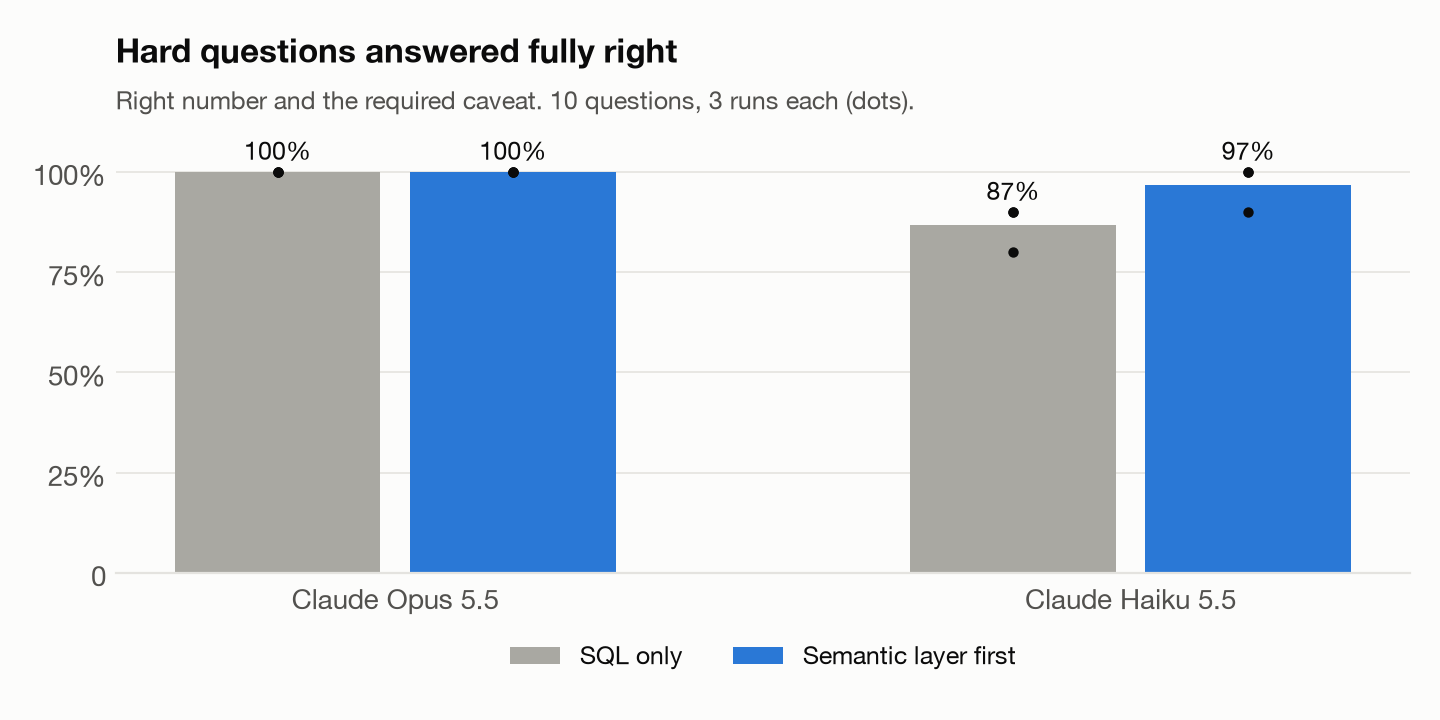
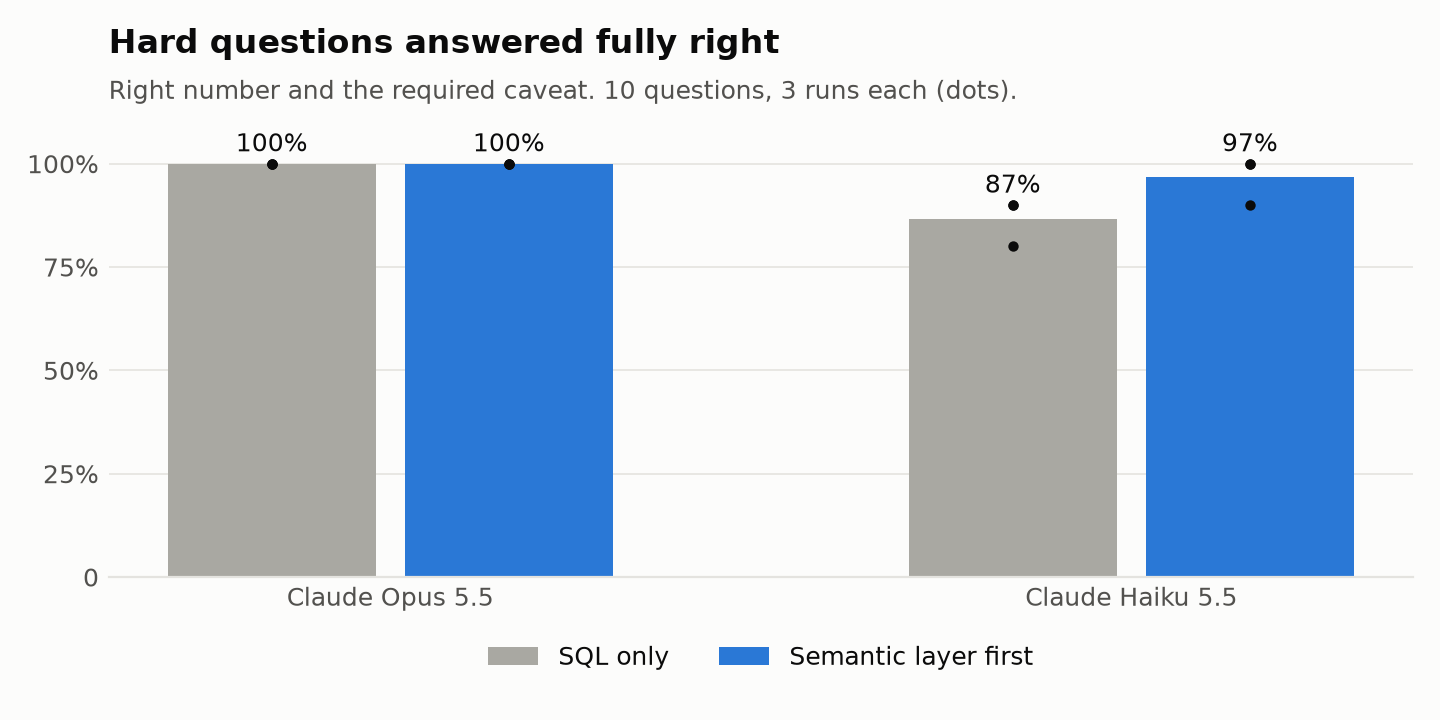
Say 50 meters (half a block); redraw charts in the daily run

diff --git a/docs/charts.py b/docs/charts.py
@@ -26,8 +26,8 @@ ORANGE = "#eb6834"
 
 plt.rcParams.update(
     {
-        "font.family": ["Helvetica Neue", "Arial"],
-        "font.size": 10,
+        "font.family": ["DejaVu Sans"],  # ships with matplotlib, so charts render the same on any machine
+        "font.size": 9,
         "text.color": INK,
         "axes.labelcolor": INK_2,
         "axes.edgecolor": GRID,
@@ -46,7 +46,7 @@ def query(sql: str) -> list[list]:
 
 
 def finish(ax, title: str, subtitle: str) -> None:
-    ax.set_title(title, loc="left", fontsize=12, fontweight="bold", pad=22)
+    ax.set_title(title, loc="left", fontsize=12, fontweight="bold", pad=10 + 12 * (subtitle.count("\n") + 1))
     ax.text(0, 1.02, subtitle, transform=ax.transAxes, fontsize=9, color=INK_2, va="bottom")
     for side in ("top", "right", "left"):
         ax.spines[side].set_visible(False)
@@ -67,10 +67,10 @@ def lanes_by_borough() -> None:
     near = [r[1] * 100 for r in rows]
     city = [r[2] * 100 for r in rows]
 
-    fig, ax = plt.subplots(figsize=(7.2, 3.9))
+    fig, ax = plt.subplots(figsize=(7.2, 4.4))
     y = range(len(areas))
     h = 0.34
-    ax.barh([i + h / 2 + 0.02 for i in y], near, height=h, color=BLUE, label="Within 50 m of new protected lanes")
+    ax.barh([i + h / 2 + 0.02 for i in y], near, height=h, color=BLUE, label="Within about 50 meters (half a block) of new protected lanes")
     ax.barh([i - h / 2 - 0.02 for i in y], city, height=h, color=GRAY, label="Citywide, same two-year windows")
     for i, (n, c) in enumerate(zip(near, city)):
         ax.text(max(n, 0) + 0.8, i + h / 2 + 0.02, f"{n:+.0f}%" if abs(n) >= 1 else f"{n:+.1f}%", va="center", fontsize=9, color=INK)
@@ -81,9 +81,9 @@ def lanes_by_borough() -> None:
     ax.set_axisbelow(True)
     ax.set_xlim(min(min(city), 0) - 2, max(near) + 8)
     ax.xaxis.set_major_formatter(lambda v, _: f"{v:+.0f}%" if v else "0")
-    ax.legend(loc="upper center", bbox_to_anchor=(0.45, -0.1), ncol=2, frameon=False, fontsize=9)
+    ax.legend(loc="upper left", bbox_to_anchor=(0, -0.1), ncol=1, frameon=False, fontsize=9)
     finish(ax, "Cyclists hurt, 2 years after vs. 2 years before a protected lane",
-           "NYC lanes installed 2015 to Oct 2024. Not adjusted for more people riding. Staten Island left out (1 injury before).")
+           "NYC lanes installed 2015 to Oct 2024. Not adjusted for more people riding.\nStaten Island left out (1 injury before).")
     fig.tight_layout()
     fig.savefig(OUT / "new_lanes_by_borough.png")
     plt.close(fig)

diff --git a/README.md b/README.md
@@ -7,7 +7,7 @@ I live near Hyde Park Ave in Roslindale, which has no bike lane; the City is [lo
 **Bottom line**
 
 - **Riding near me is up.** Summer bike counts on Washington St in Roslindale went from about 330 a day in 2018 to 574 in 2026, while car traffic stayed flat. Each summer is only two count days, so treat the size of the jump as rough.
-- **The NYC data can't show whether protected lanes make streets safer.** Cyclists hurt within 50 m of new lanes rose 17%, against 1.7% citywide, but lanes go where riding is growing and there's no per-street ridership count to adjust for it.
+- **The NYC data can't show whether protected lanes make streets safer.** Cyclists hurt within about 50 meters (half a block) of new lanes rose 17%, against 1.7% citywide, but lanes go where riding is growing and there's no per-street ridership count to adjust for it.
 - **Putting the caveats in the metrics made AI answers more honest.** Asked through MCP, a small model gave the right number and the right caveat 29 of 30 times using the metrics, and 26 of 30 writing its own SQL. A large model got all 30 either way ([eval](evals/RESULTS.md)).
 
 ![Cyclists hurt near new NYC protected lanes vs. citywide](docs/img/new_lanes_by_borough.png)
